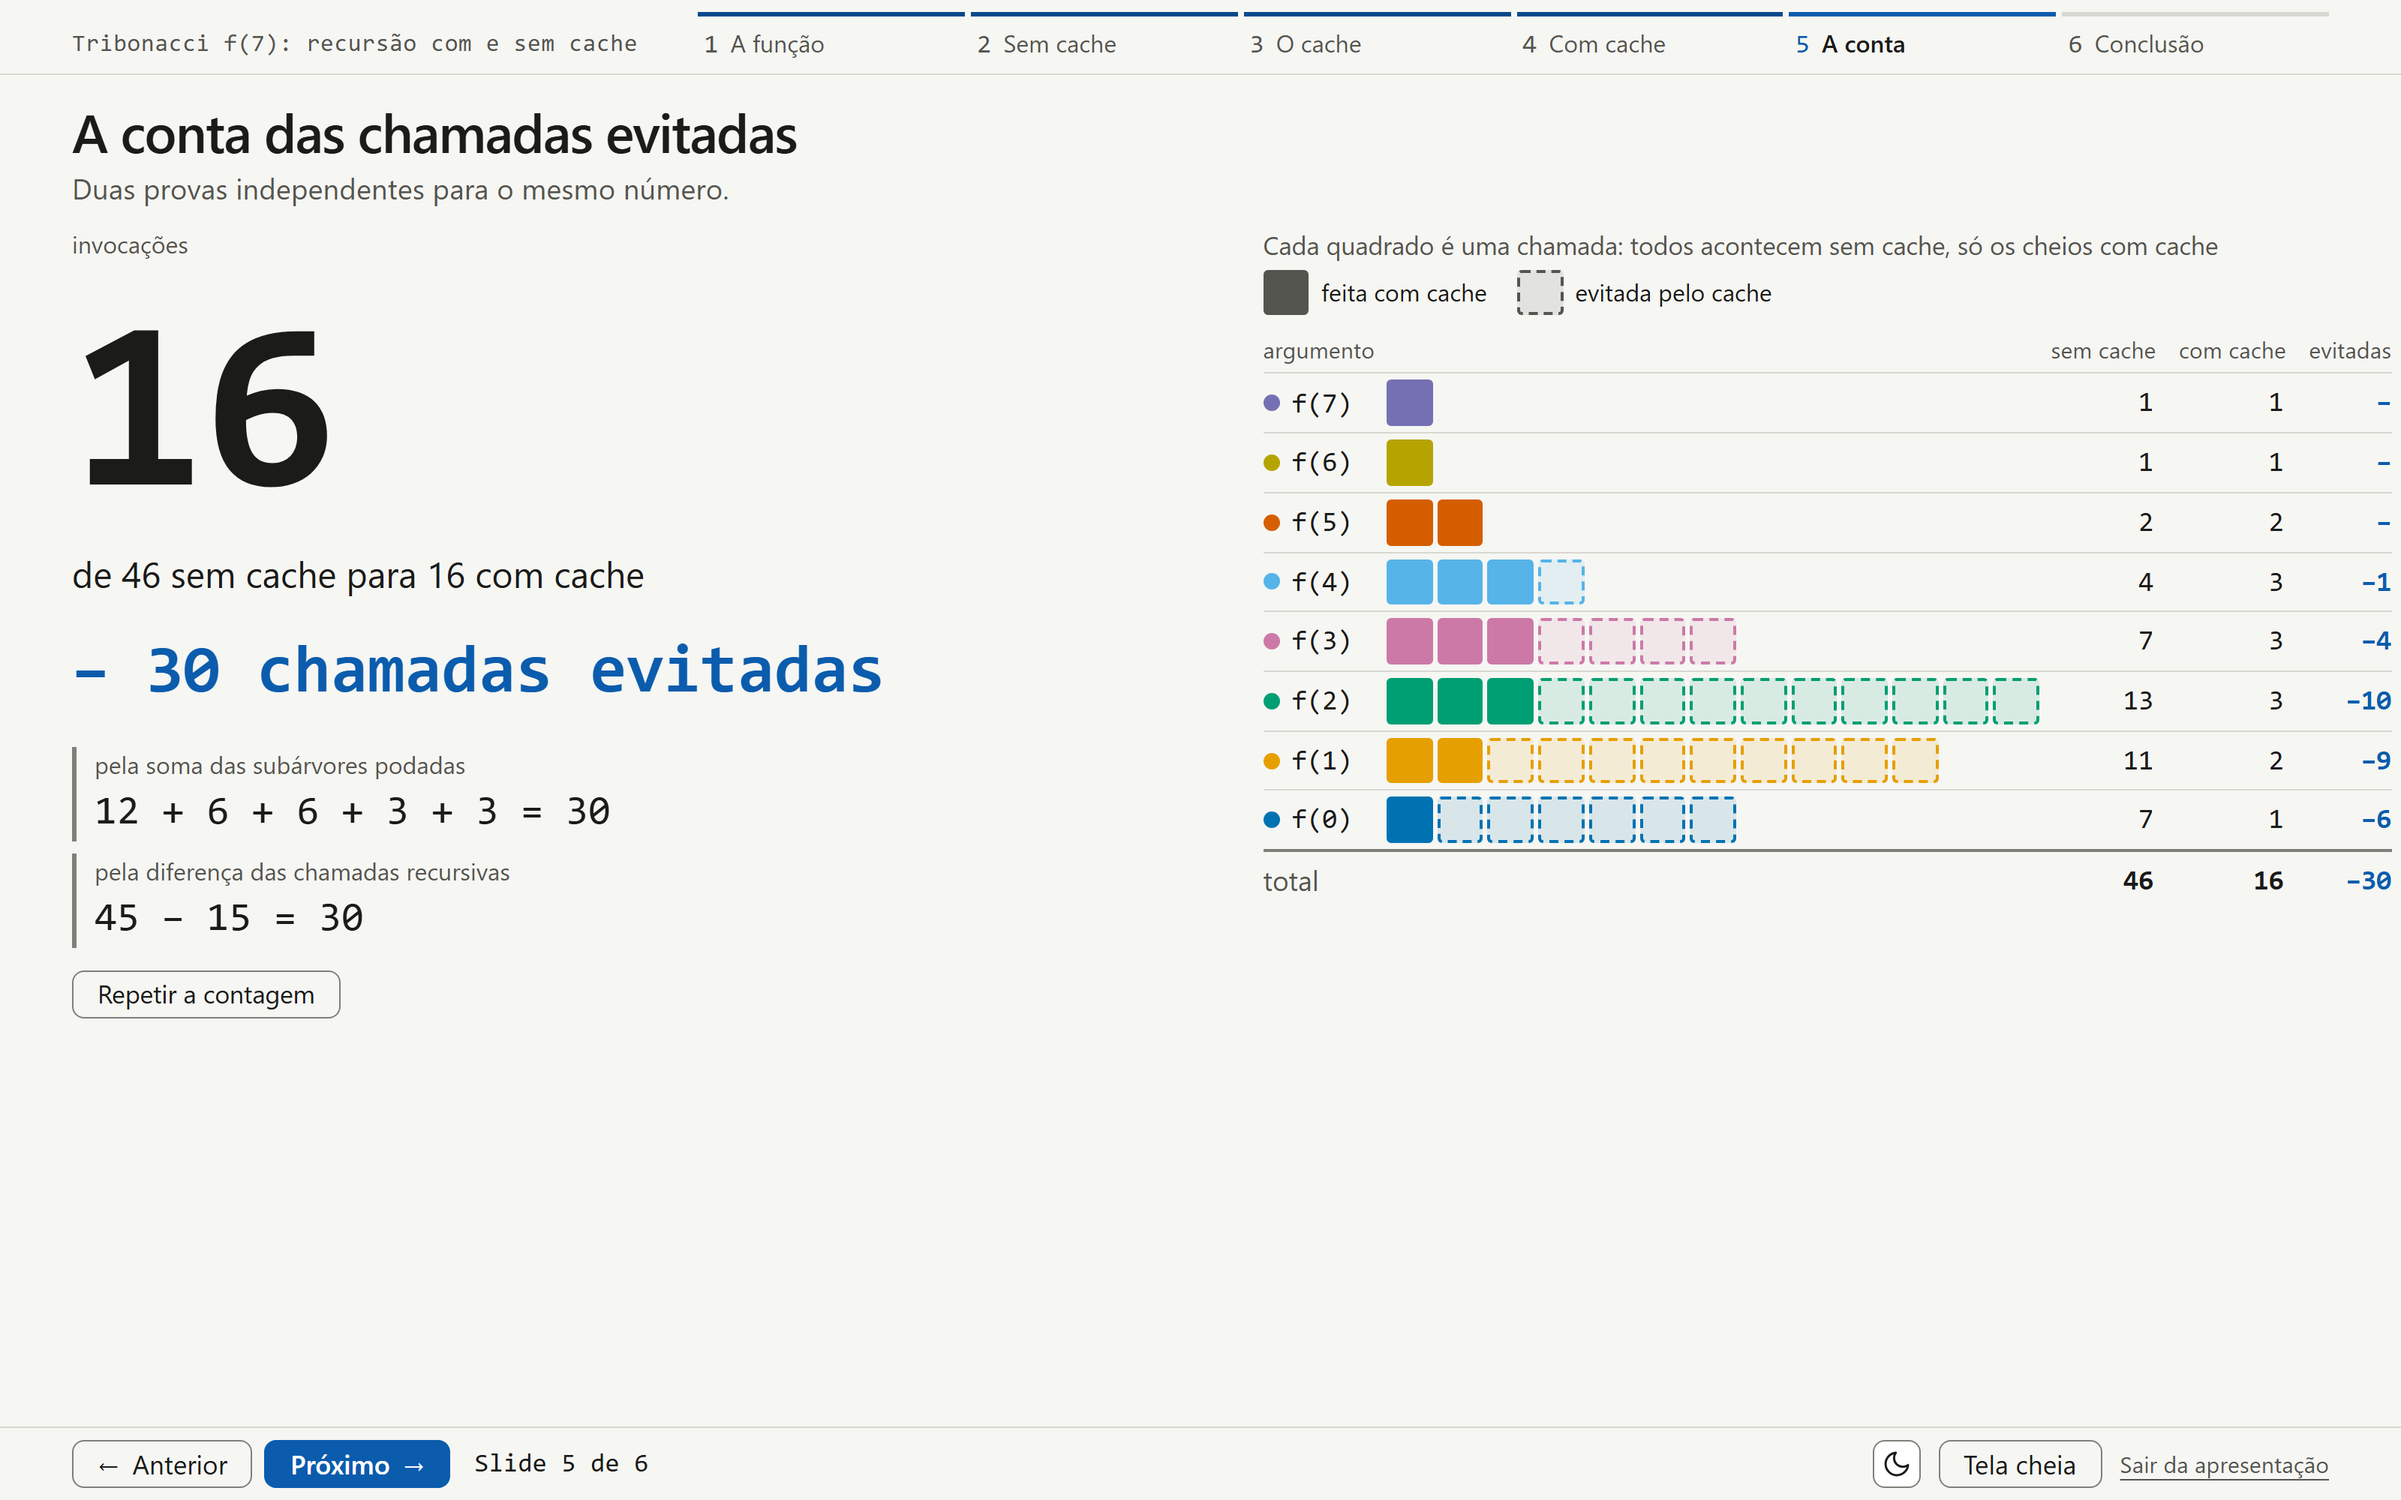
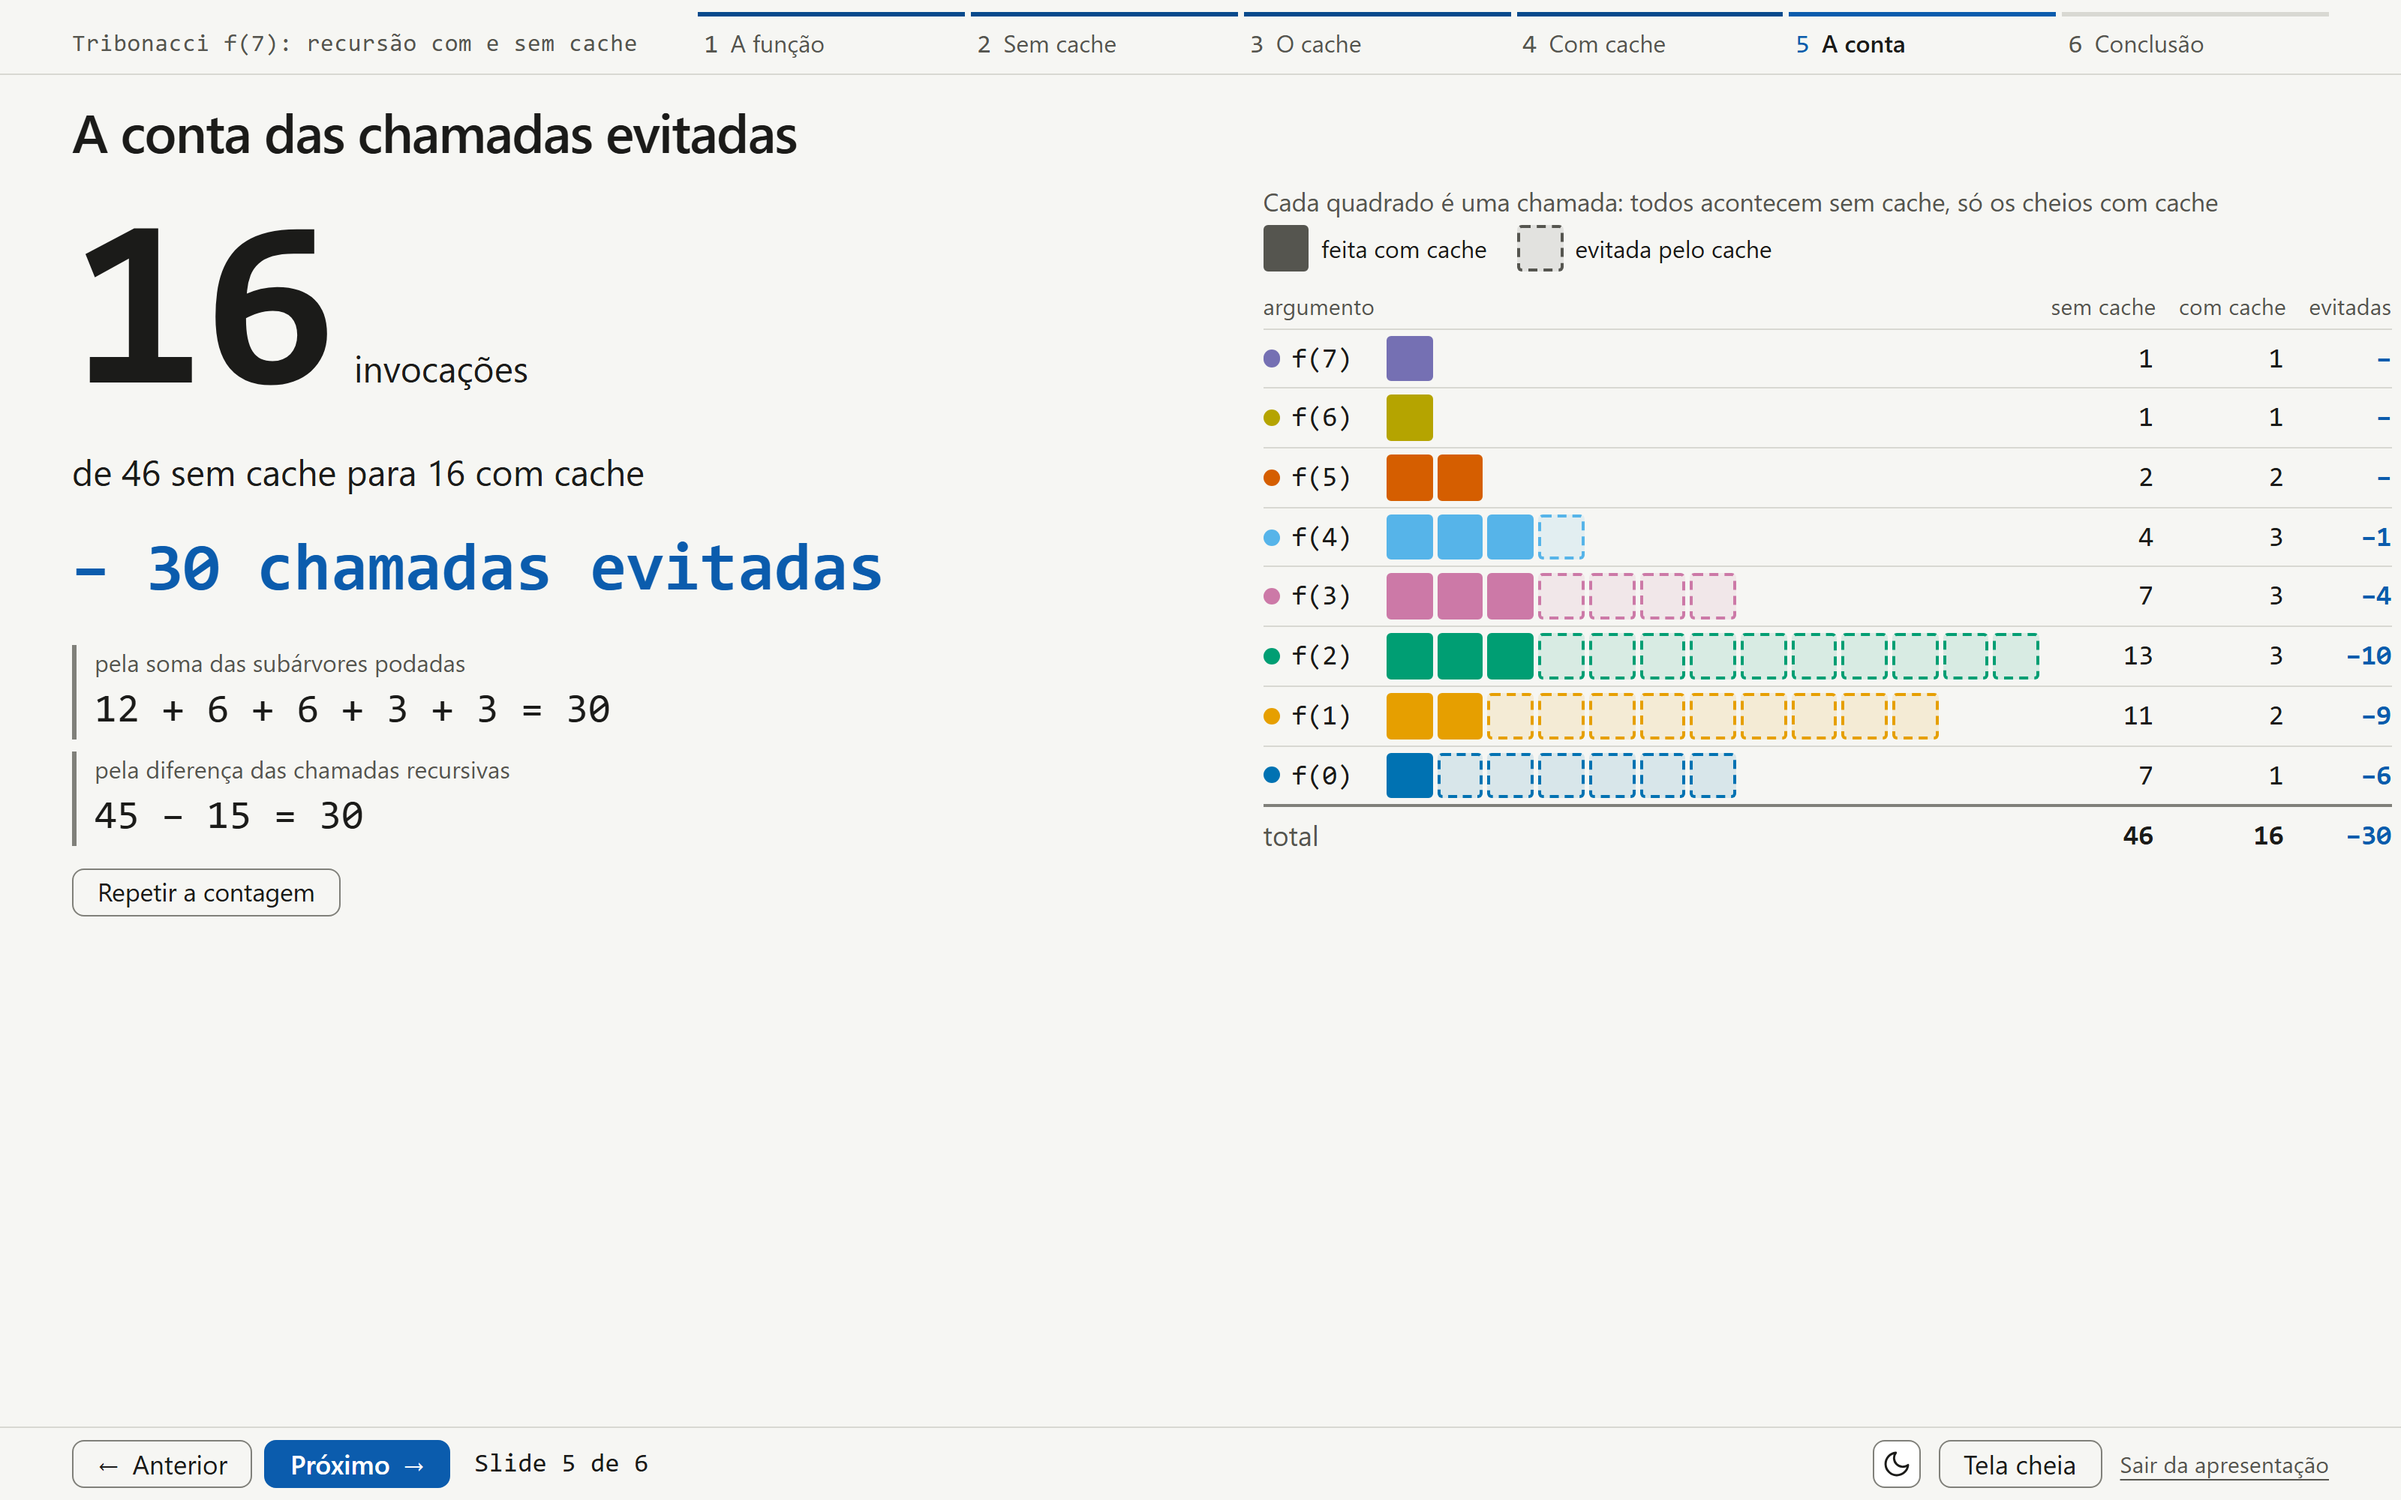
docs(docs): registra a unidade ao lado do contador do slide 5
A decisão dos slides passa a dizer que o slide 5 fica sem resumo e que
a palavra invocações vem ao lado do contador. A figura do slide da
conta é exportada de novo.

diff --git a/docs/decisoes.md b/docs/decisoes.md
@@ -511,7 +511,9 @@ melhor projetada.
   os cheios as com cache e os tracejados as evitadas, como na árvore.
   Os tracejados se esvaziam no ritmo do contador, pela inversa da mesma
   curva, e o lado do quadrado sai da largura da coluna para a fileira
-  mais longa não quebrar.
+  mais longa não quebrar. O slide fica sem resumo abaixo do título, e a
+  palavra invocações vem ao lado do contador, no corpo da frase de
+  baixo, em vez de um rótulo pequeno acima dele.
 - **Slide 6, Conclusão.** Sai o nome Generalizando e o título
   Exponencial contra linear. O fecho ocupa a largura toda do palco.
 
